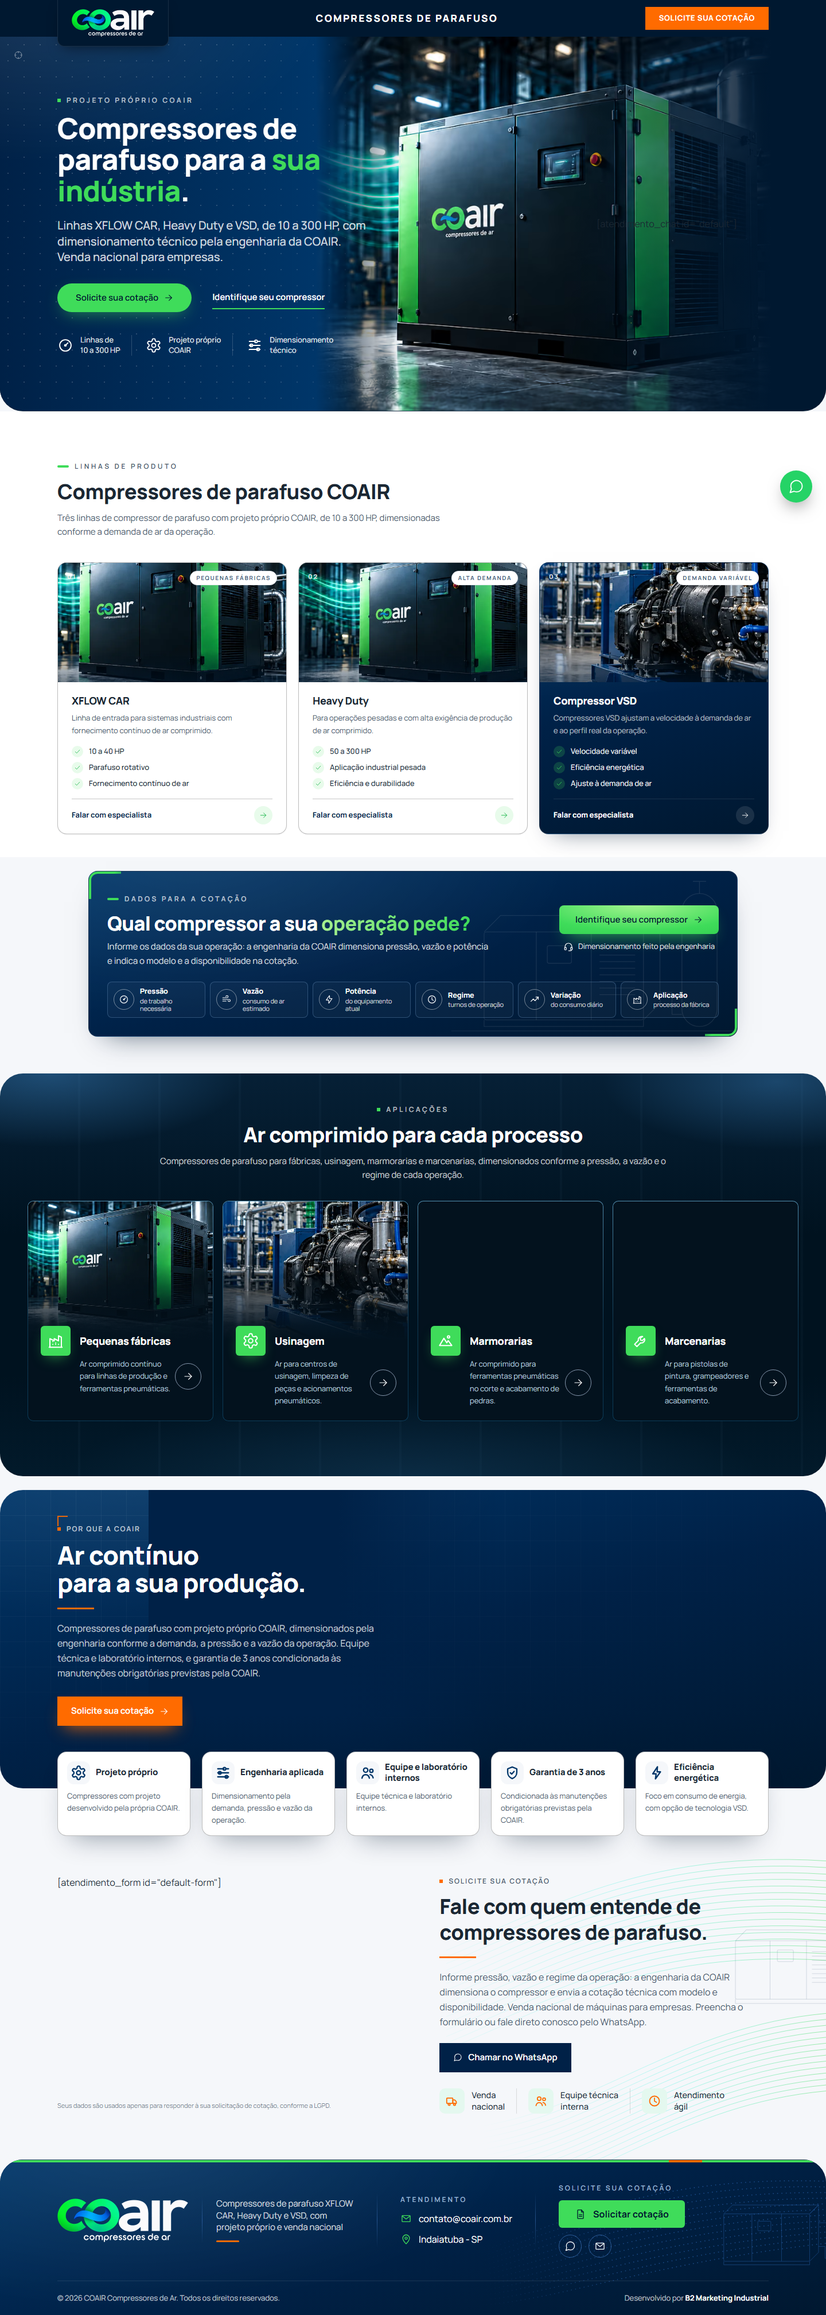
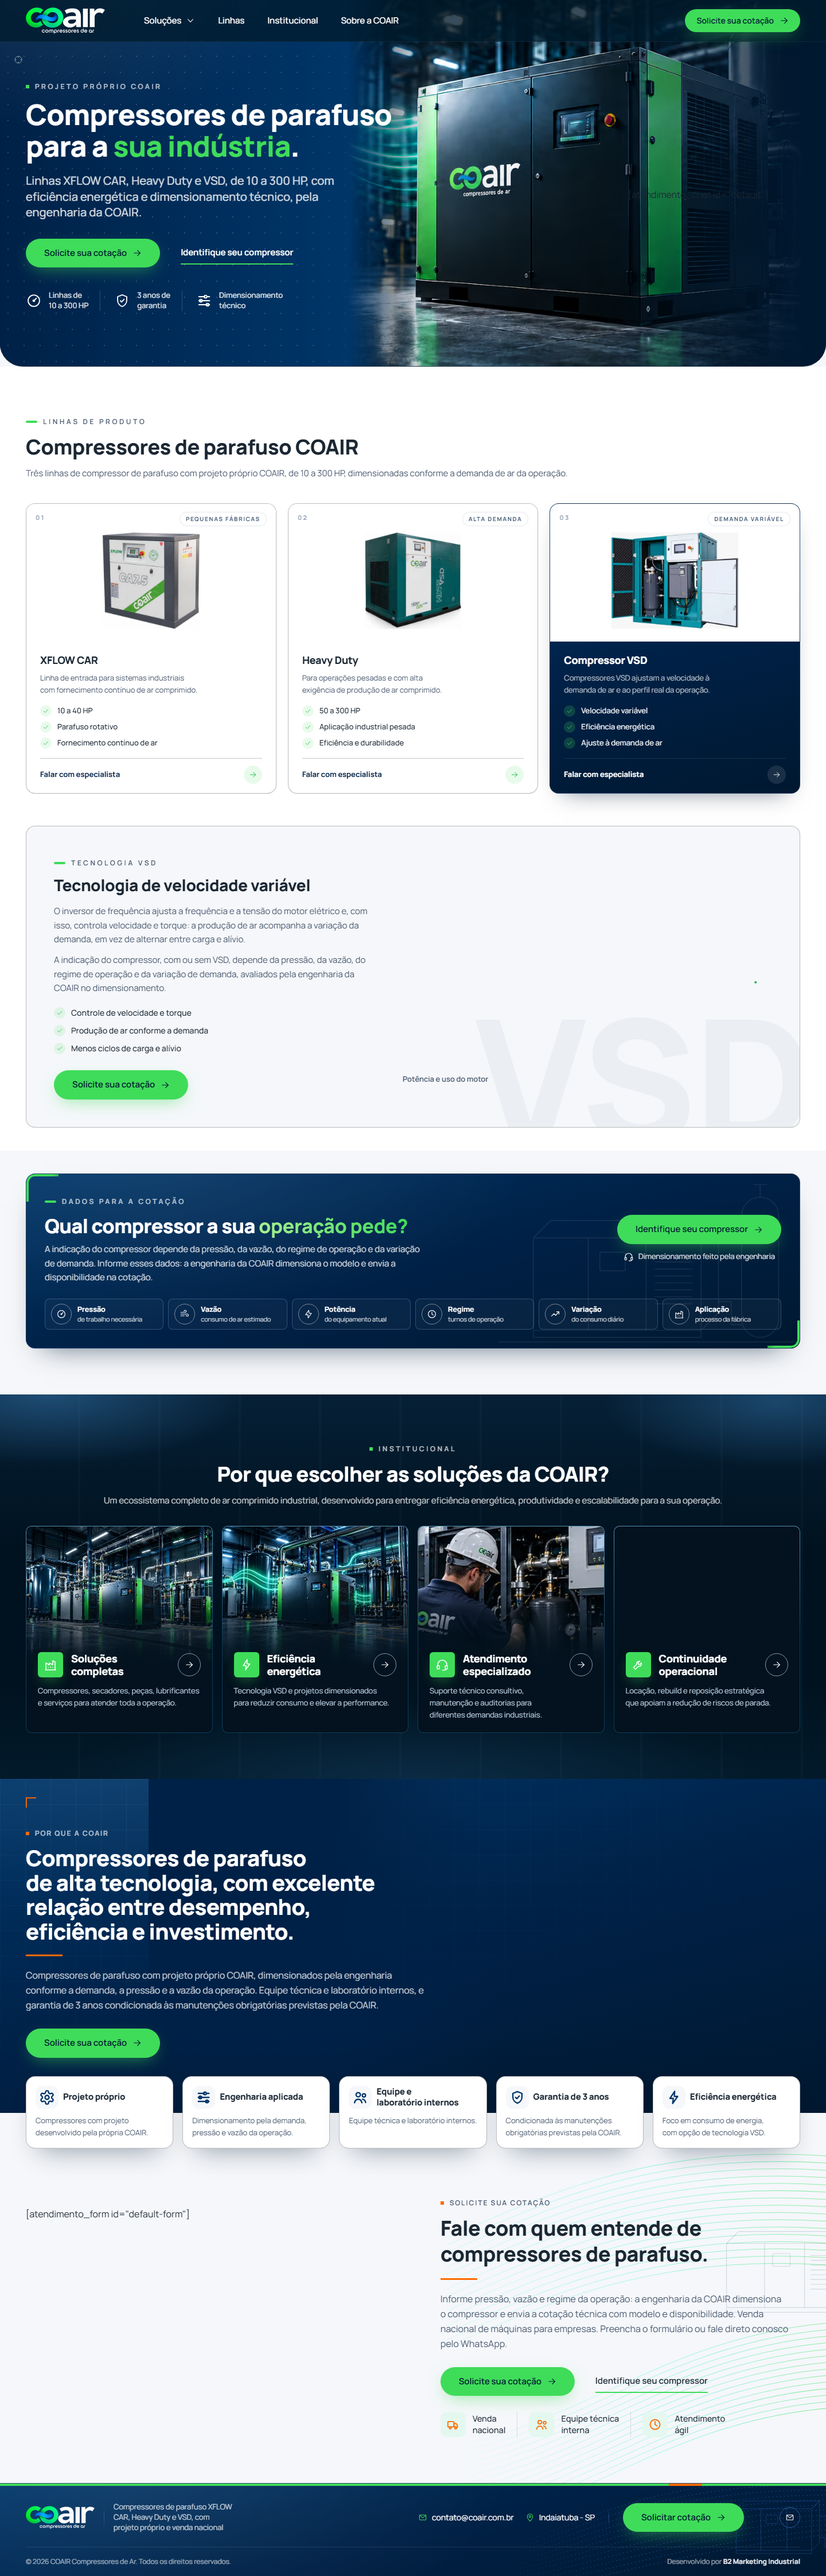
feat: revisão de copy (claims sem comprovação e texto do VSD)
- Diferenciais: "melhor custo-benefício do mercado" vira "excelente relação
  entre desempenho, eficiência e investimento" (título em 4 linhas)
- Institucional: "Operação sem paradas" vira "Continuidade operacional"
- Tecnologia VSD: sai "determinando qual compressor irá operar"; texto explica
  o inversor e ganha parágrafo sobre a indicação (pressão, vazão, regime e
  variação de demanda)
- Painel de dados reforça que a indicação depende desses fatores

diff --git a/src/data/sections/linhas.ts b/src/data/sections/linhas.ts
@@ -9,7 +9,9 @@
  *
  * `technology` é o módulo pedido pelo cliente logo abaixo dos cards, a partir do
  * slide "Tecnologia Velocidade Variável - VSD". O "+42%" do slide fica de fora:
- * é claim proibido pelo briefing até ter comprovação.
+ * é claim proibido pelo briefing até ter comprovação. Texto revisado em 14/10/2026:
+ * o slide dizia que o VSD determina "qual compressor irá operar", o que é papel do
+ * controlador central num sistema com vários compressores, não do inversor.
  */
 import type { Photo } from '@data/types'
 
@@ -69,11 +71,12 @@ export const productLines = {
   technology: {
     eyebrow: 'Tecnologia VSD',
     title: 'Tecnologia de velocidade variável',
-    text: 'Tecnologia responsável pelo controle da velocidade, frequência, tensão e torque do motor elétrico, determinando qual compressor irá operar, no tempo correto, para a demanda de ar requerida.',
+    text: 'O inversor de frequência ajusta a frequência e a tensão do motor elétrico e, com isso, controla velocidade e torque: a produção de ar acompanha a variação da demanda, em vez de alternar entre carga e alívio.',
+    note: 'A indicação do compressor, com ou sem VSD, depende da pressão, da vazão, do regime de operação e da variação de demanda, avaliados pela engenharia da COAIR no dimensionamento.',
     points: [
       'Controle de velocidade e torque',
-      'Operação no tempo correto',
-      'Ajuste à demanda de ar',
+      'Produção de ar conforme a demanda',
+      'Menos ciclos de carga e alívio',
     ],
     chartLabel: 'Potência e uso do motor',
   },
@@ -88,6 +91,7 @@ export const productLines = {
     eyebrow: string
     title: string
     text: string
+    note: string
     points: readonly [string, string, string]
     chartLabel: string
   }

diff --git a/src/data/sections/diferenciais.ts b/src/data/sections/diferenciais.ts
@@ -6,6 +6,8 @@
  *
  * COAIR Compressores: título e foto trocados a pedido do cliente (10/10/2026). A
  * foto já traz a pessoa e os compressores, então não há pessoa recortada (`person: null`).
+ * O "melhor custo-benefício do mercado" do título virou "excelente relação entre
+ * desempenho, eficiência e investimento" (14/10/2026): superlativo sem comprovação.
  * A garantia sempre acompanha a condicionante das manutenções obrigatórias.
  */
 import type { IconName } from '@data/icons'
@@ -25,8 +27,9 @@ export const why = {
   /** Cada item é uma linha do H2 (quebra forçada). */
   titleLines: [
     'Compressores de parafuso',
-    'de alta tecnologia com o melhor',
-    'custo‑benefício do mercado.',
+    'de alta tecnologia, com excelente',
+    'relação entre desempenho,',
+    'eficiência e investimento.',
   ],
   text: `Compressores de parafuso com projeto próprio ${site.brandShort}, dimensionados pela engenharia conforme a demanda, a pressão e a vazão da operação. Equipe técnica e laboratório internos, e garantia de 3 anos condicionada às manutenções obrigatórias previstas pela ${site.brandShort}.`,
   scene: {

diff --git a/src/data/sections/aplicacoes.ts b/src/data/sections/aplicacoes.ts
@@ -8,6 +8,8 @@
  * institucional — "Por que escolher as soluções da COAIR?" —, com textos e fotos
  * do modelo enviado. A foto de "Atendimento especializado" foi recortada do print
  * do modelo (baixa resolução); trocar pelo arquivo original quando chegar.
+ * "Operação sem paradas" virou "Continuidade operacional" (14/10/2026): promessa de
+ * zero parada não se sustenta. O `id` segue o antigo para não mudar o `data-cta`.
  */
 import type { Photo } from '@data/types'
 import type { IconName } from '@data/icons'
@@ -62,9 +64,9 @@ export const applications = {
     },
     {
       id: 'operacao-sem-paradas',
-      label: 'Operação sem paradas',
+      label: 'Continuidade operacional',
       description:
-        'Locação, rebuild e reposição estratégica para manter sua produtividade em movimento.',
+        'Locação, rebuild e reposição estratégica que apoiam a redução de riscos de parada.',
       icon: 'wrench',
       photo: {
         src: operacao,

diff --git a/src/data/sections/identificar.ts b/src/data/sections/identificar.ts
@@ -22,7 +22,7 @@ export const supportPanel = {
   title: 'Qual compressor a sua operação pede?',
   /** Trecho do título destacado em verde (precisa existir dentro de `title`). */
   highlight: 'operação pede?',
-  text: 'Informe os dados da sua operação: a engenharia da COAIR dimensiona pressão, vazão e potência e indica o modelo e a disponibilidade na cotação.',
+  text: 'A indicação do compressor depende da pressão, da vazão, do regime de operação e da variação de demanda. Informe esses dados: a engenharia da COAIR dimensiona o modelo e envia a disponibilidade na cotação.',
   microcopy: 'Dimensionamento feito pela engenharia',
   items: [
     { icon: 'gauge', label: 'Pressão', hint: 'de trabalho necessária' },
